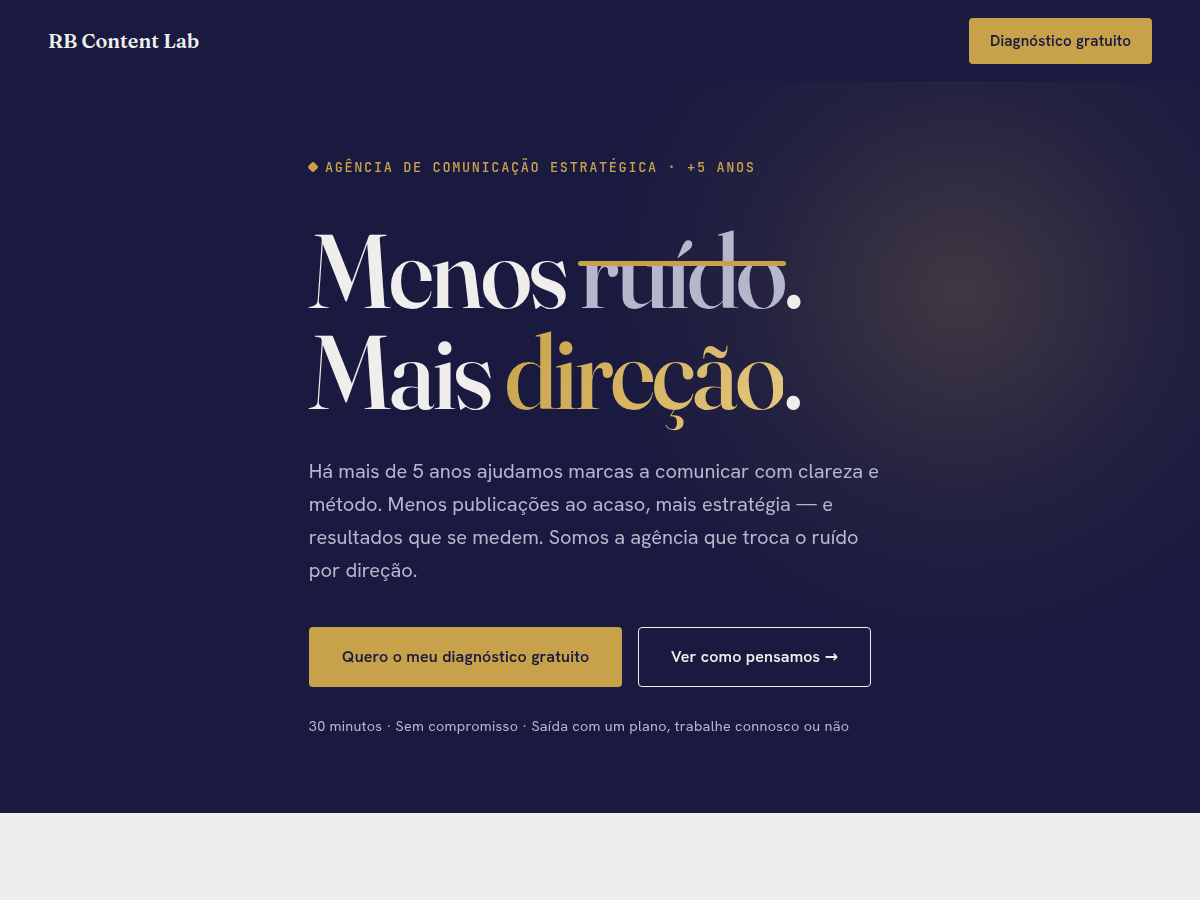
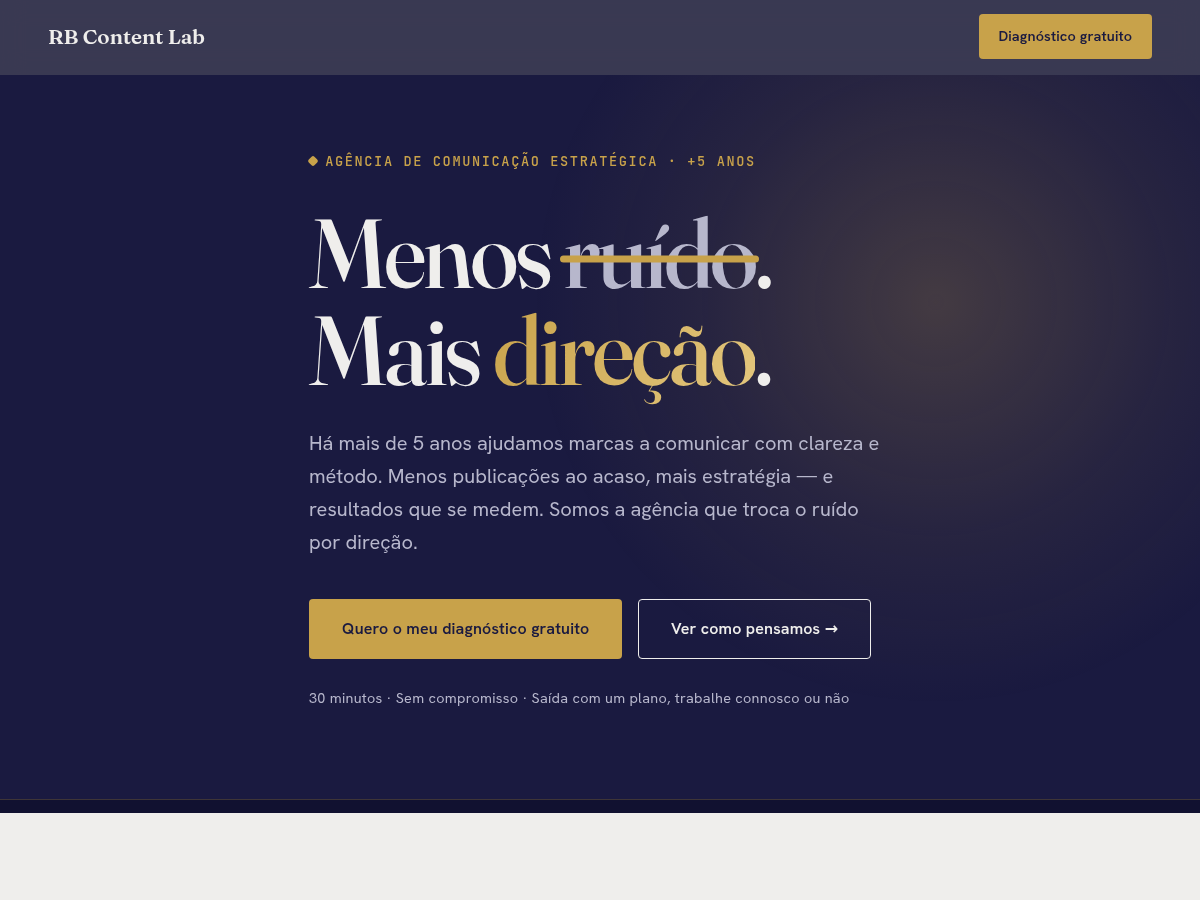
Landing: nav sticky com blur, traço corrigido, mobile-first e mais animações
- Nav bar: cabeçalho sticky translúcido (blur), com sombra ao rolar e a
  esconder-se ao descer / mostrar ao subir (JS, respeita reduced-motion)
- Traço no 'ruído': reposicionado ao centro do texto, espessura proporcional
  e cantos redondos (antes ficava alto e estranho)
- Mobile-first: CTAs em coluna a largura total, hero e espaçamentos ajustados,
  setores sem transbordar, cabeçalho compacto; rede anti-overflow (overflow-x
  clip no main, sem partir o sticky) e overflow-wrap
- Animações mais criativas: variantes de reveal (left/right/scale) por secção,
  glow do hero com deriva lenta, scroll suave com offset do header, e brilho
  a atravessar os botões preenchidos no hover
- Todas as animações com guarda prefers-reduced-motion; screenshot atualizado

diff --git a/rb-content-lab/assets/css/landing.css b/rb-content-lab/assets/css/landing.css
@@ -4,6 +4,8 @@
  */
 
 /* --- Secções e fundos --- */
+/* Rede de segurança anti-overflow horizontal (clip não parte o sticky do header) */
+.rb-lp-main { overflow-x: clip; }
 .rb-lp section { padding-block: var(--rb-space-xxl); }
 .rb-bg-ink { background: var(--rb-ink); color: var(--rb-paper); }
 .rb-bg-paper { background: var(--rb-paper); color: var(--rb-ink); }
@@ -13,39 +15,54 @@
 .rb-muted { color: var(--rb-muted); }
 .rb-bg-ink .rb-muted, .rb-muted-2 { color: var(--rb-muted-2); }
 
-/* --- Cabeçalho minimal da landing --- */
-.rb-lp-header { background: var(--rb-ink); color: var(--rb-paper); }
-.rb-lp-header .rb-container { display: flex; align-items: center; justify-content: space-between; padding-block: 1.1rem; }
-.rb-lp-brand { display: flex; align-items: center; gap: 0.6rem; font-family: var(--rb-font-display); font-weight: 600; font-size: 1.25rem; color: var(--rb-paper); text-decoration: none; }
-.rb-lp-brand img { width: 36px; height: auto; }
-.rb-lp-header .rb-btn { padding: 0.6rem 1.25rem; font-size: 0.95rem; }
+/* --- Cabeçalho minimal da landing (sticky + blur + esconde ao descer) --- */
+.rb-lp-header {
+	position: sticky;
+	top: 0;
+	z-index: 50;
+	color: var(--rb-paper);
+	background: var(--rb-ink);
+	background: color-mix(in srgb, var(--rb-ink-deep) 82%, transparent);
+	-webkit-backdrop-filter: blur(12px);
+	backdrop-filter: blur(12px);
+	border-bottom: 1px solid transparent;
+	transition: transform 0.35s ease, box-shadow 0.3s ease, border-color 0.3s ease;
+}
+.rb-lp-header.is-scrolled { border-bottom-color: rgba(200, 162, 74, 0.18); box-shadow: 0 10px 30px -14px rgba(0, 0, 0, 0.55); }
+.rb-lp-header.is-hidden { transform: translateY(-100%); }
+.rb-lp-header .rb-container { display: flex; align-items: center; justify-content: space-between; gap: 1rem; padding-block: 0.9rem; }
+.rb-lp-brand { display: inline-flex; align-items: center; gap: 0.55rem; font-family: var(--rb-font-display); font-weight: 600; font-size: clamp(1.05rem, 1rem + 0.5vw, 1.3rem); color: var(--rb-paper); text-decoration: none; white-space: nowrap; }
+.rb-lp-brand:hover { text-decoration: none; }
+.rb-lp-brand img { width: 34px; height: auto; }
+.rb-lp-header .rb-btn { padding: 0.6rem 1.15rem; font-size: 0.9rem; white-space: nowrap; }
 
 /* --- Hero --- */
-.rb-lp-hero { min-height: 90vh; display: flex; align-items: center; position: relative; overflow: hidden; }
-/* Glow dourado difuso — profundidade moderna */
+.rb-lp-hero { min-height: min(88vh, 820px); display: flex; align-items: center; position: relative; overflow: hidden; }
+/* Glow dourado difuso, com deriva lenta — profundidade moderna */
 .rb-lp-hero::before {
 	content: "";
 	position: absolute;
-	top: -20%;
-	right: -10%;
-	width: 60vw;
-	height: 60vw;
-	max-width: 820px;
-	max-height: 820px;
-	background: radial-gradient(circle, rgba(200,162,74,0.22) 0%, rgba(200,162,74,0.06) 40%, transparent 70%);
+	top: -25%;
+	right: -12%;
+	width: 68vw;
+	height: 68vw;
+	max-width: 860px;
+	max-height: 860px;
+	background: radial-gradient(circle, rgba(200,162,74,0.24) 0%, rgba(200,162,74,0.07) 42%, transparent 70%);
 	pointer-events: none;
 	z-index: 0;
+	animation: rb-float 14s ease-in-out infinite alternate;
 }
 .rb-lp-hero .rb-container { position: relative; z-index: 1; }
 .rb-statement {
 	font-family: var(--rb-font-display);
 	font-weight: 500;
-	line-height: 0.98;
+	line-height: 1.0;
 	letter-spacing: -0.03em;
-	font-size: clamp(3rem, 1.6rem + 6.5vw, 6.5rem);
-	margin: 2.5rem 0 2rem;
+	font-size: clamp(2.65rem, 1.4rem + 6.2vw, 6.5rem);
+	margin: 2rem 0 1.75rem;
 }
-/* Palavra "ruído": risco dourado que se desenha ao entrar em cena */
+/* Palavra "ruído": risco dourado, centrado, que se desenha ao entrar em cena */
 .rb-hero-statement s {
 	text-decoration: none;
 	position: relative;
@@ -55,16 +72,18 @@
 .rb-hero-statement s::after {
 	content: "";
 	position: absolute;
-	left: -0.02em; right: -0.02em;
-	top: 0.52em;
-	height: 5px;
-	border-radius: 3px;
+	left: -0.04em; right: -0.04em;
+	top: 55%;
+	height: 0.07em;
+	min-height: 3px;
+	border-radius: 999px;
 	background: var(--rb-signature);
-	transform: scaleX(0);
+	transform: translateY(-50%) scaleX(0);
 	transform-origin: left center;
-	transition: transform 0.85s cubic-bezier(0.2, 0.7, 0.2, 1) 0.5s;
+	transition: transform 0.8s cubic-bezier(0.2, 0.7, 0.2, 1) 0.55s;
 }
-.rb-lp-hero.in-view .rb-hero-statement s::after { transform: scaleX(1); }
+.rb-lp-hero.in-view .rb-hero-statement s::after { transform: translateY(-50%) scaleX(1); }
+@keyframes rb-float { from { transform: translate(0, 0); } to { transform: translate(-4%, 5%); } }
 .rb-hero-statement mark {
 	background: transparent;
 	color: var(--rb-signature);
@@ -188,14 +207,22 @@
    ANIMAÇÕES
    =================================================================== */
 
-/* Reveal ao entrar no ecrã (com stagger via --rb-i) */
+/* Reveal ao entrar no ecrã (com stagger via --rb-i e variantes de direção) */
 [data-reveal] {
 	opacity: 0;
-	transform: translateY(28px);
-	transition: opacity 0.7s cubic-bezier(0.2, 0.7, 0.2, 1), transform 0.7s cubic-bezier(0.2, 0.7, 0.2, 1);
+	transform: translateY(30px);
+	transition: opacity 0.75s cubic-bezier(0.16, 0.8, 0.3, 1), transform 0.75s cubic-bezier(0.16, 0.8, 0.3, 1), filter 0.75s ease;
 	transition-delay: calc(var(--rb-i, 0) * 90ms);
+	will-change: transform, opacity;
 }
-[data-reveal].in-view { opacity: 1; transform: none; }
+[data-reveal="left"] { transform: translateX(-36px); }
+[data-reveal="right"] { transform: translateX(36px); }
+[data-reveal="scale"] { transform: scale(0.93); }
+[data-reveal="blur"] { filter: blur(10px); }
+[data-reveal].in-view { opacity: 1; transform: none; filter: none; }
+
+/* Offset do scroll para não ficar por baixo do cabeçalho sticky */
+:where(#manifesto, #diagnostico) { scroll-margin-top: 84px; }
 
 @keyframes rb-fade-in { from { opacity: 0; transform: translateY(-4px); } to { opacity: 1; transform: none; } }
 
@@ -230,8 +257,39 @@
 
 /* Respeita quem prefere menos movimento */
 @media (prefers-reduced-motion: reduce) {
-	[data-reveal] { opacity: 1; transform: none; transition: none; }
-	.rb-hero-statement s::after { transition: none; transform: scaleX(1); }
+	[data-reveal] { opacity: 1; transform: none; filter: none; transition: none; }
+	.rb-hero-statement s::after { transition: none; transform: translateY(-50%) scaleX(1); }
 	.rb-marquee__track { animation: none; }
+	.rb-lp-hero::before { animation: none; }
 	.rb-form-card:hover, .rb-btn:hover { transform: none; }
+}
+
+/* ===================================================================
+   MOBILE-FIRST — refinamentos para ecrãs pequenos
+   =================================================================== */
+@media (max-width: 640px) {
+	.rb-lp section, .rb-lp-hero { padding-block: clamp(3.5rem, 2rem + 8vw, 5rem); }
+	.rb-lp-hero { min-height: auto; }
+	.rb-lp-hero::before { width: 120vw; height: 120vw; top: -10%; right: -30%; }
+	.rb-statement { margin: 1.5rem 0 1.5rem; }
+	/* CTAs em coluna, largura total — alvos de toque confortáveis */
+	.rb-cta-row { flex-direction: column; align-items: stretch; gap: 0.75rem; }
+	.rb-cta-row .rb-btn { width: 100%; text-align: center; padding-block: 0.95rem; }
+	.rb-cta-final .rb-cta-row { align-items: stretch; }
+	/* Marquee um pouco mais compacto */
+	.rb-marquee { padding-block: 0.85rem; }
+	.rb-marquee__track span { font-size: 0.82rem; letter-spacing: 0.14em; gap: 1.75rem; }
+	/* Setores empilham com mais respiração e sem transbordar */
+	.rb-sectors-list { gap: 0.6rem 1.5rem; }
+	.rb-sectors-list li { font-size: clamp(1.2rem, 1rem + 3vw, 1.6rem); gap: 0.6rem; }
+	/* Cartão do formulário sem “saltar” no toque */
+	.rb-form-card:hover { transform: none; }
+	/* Cabeçalho compacto */
+	.rb-lp-header .rb-container { padding-block: 0.7rem; }
+	.rb-lp-header .rb-btn { padding: 0.55rem 0.9rem; font-size: 0.82rem; }
+}
+
+@media (max-width: 380px) {
+	.rb-statement { font-size: 2.35rem; }
+	.rb-lp-brand { font-size: 1rem; }
 }

diff --git a/rb-content-lab/style.css b/rb-content-lab/style.css
@@ -78,6 +78,8 @@ Tags: custom-colors, custom-logo, editor-style, featured-images, translation-rea
    BASE
    =================================================================== */
 *, *::before, *::after { box-sizing: border-box; }
+html { scroll-behavior: smooth; }
+@media (prefers-reduced-motion: reduce) { html { scroll-behavior: auto; } }
 body {
 	margin: 0;
 	font-family: var(--rb-font-body);
@@ -87,6 +89,7 @@ body {
 	background: var(--rb-paper);
 	-webkit-font-smoothing: antialiased;
 	text-rendering: optimizeLegibility;
+	overflow-wrap: break-word;
 }
 img, svg, video { max-width: 100%; height: auto; display: block; }
 a { color: var(--rb-signature); text-decoration: none; }
@@ -155,8 +158,25 @@ p { margin: 0 0 1rem; }
 	transition: background-color 0.2s ease, color 0.2s ease, transform 0.2s ease, box-shadow 0.2s ease;
 	text-decoration: none;
 	will-change: transform;
+	position: relative;
+	overflow: hidden;
+	isolation: isolate;
 }
 .rb-btn:hover { text-decoration: none; transform: translateY(-2px); }
+/* Brilho que atravessa os botões preenchidos ao passar o rato */
+.rb-btn--primary::after, .rb-btn--ink::after {
+	content: "";
+	position: absolute;
+	inset: 0;
+	z-index: -1;
+	background: linear-gradient(120deg, transparent 25%, rgba(255, 255, 255, 0.28) 50%, transparent 75%);
+	transform: translateX(-130%);
+	transition: transform 0.6s ease;
+}
+.rb-btn--primary:hover::after, .rb-btn--ink:hover::after { transform: translateX(130%); }
+@media (prefers-reduced-motion: reduce) {
+	.rb-btn--primary::after, .rb-btn--ink::after { display: none; }
+}
 .rb-btn--primary { background: var(--rb-signature); color: var(--rb-ink); }
 .rb-btn--primary:hover { background: var(--rb-signature-light); color: var(--rb-ink); box-shadow: 0 12px 30px -10px rgba(200, 162, 74, 0.6); }
 .rb-btn--ink { background: var(--rb-ink); color: var(--rb-paper); }

diff --git a/rb-content-lab/assets/js/landing.js b/rb-content-lab/assets/js/landing.js
@@ -19,6 +19,8 @@
 	}
 
 	ready( function () {
+		initHeader();
+
 		var revealEls = Array.prototype.slice.call( document.querySelectorAll( '[data-reveal]' ) );
 		var counters = Array.prototype.slice.call( document.querySelectorAll( '[data-count]' ) );
 
@@ -59,6 +61,37 @@
 			requestAnimationFrame( function () { hero.classList.add( 'in-view' ); } );
 		}
 	} );
+
+	/**
+	 * Cabeçalho: sombra ao rolar; esconde ao descer, mostra ao subir.
+	 */
+	function initHeader() {
+		var header = document.querySelector( '[data-header]' );
+		if ( ! header ) { return; }
+
+		var lastY = window.pageYOffset || 0;
+		var ticking = false;
+
+		function update() {
+			var y = window.pageYOffset || 0;
+			header.classList.toggle( 'is-scrolled', y > 8 );
+
+			if ( ! reduce ) {
+				if ( y > lastY && y > 140 ) {
+					header.classList.add( 'is-hidden' );   // a descer
+				} else {
+					header.classList.remove( 'is-hidden' ); // a subir
+				}
+			}
+			lastY = y;
+			ticking = false;
+		}
+
+		window.addEventListener( 'scroll', function () {
+			if ( ! ticking ) { window.requestAnimationFrame( update ); ticking = true; }
+		}, { passive: true } );
+		update();
+	}
 
 	/**
 	 * Anima um contador preservando prefixos/sufixos (ex.: "+5", "3x").

diff --git a/rb-content-lab/page-templates/landing.php b/rb-content-lab/page-templates/landing.php
@@ -113,7 +113,7 @@ get_header( 'landing' );
 			<div class="rb-grid-3">
 				<?php for ( $i = 1; $i <= 3; $i++ ) : ?>
 					<?php $rb_metric = rb_lp( "proof_m{$i}_value" ); ?>
-					<div data-reveal>
+					<div data-reveal="scale">
 						<p class="rb-metric" data-count="<?php echo esc_attr( $rb_metric ); ?>"><?php echo esc_html( $rb_metric ); ?></p>
 						<p><?php echo esc_html( rb_lp( "proof_m{$i}_label" ) ); ?></p>
 					</div>
@@ -121,12 +121,12 @@ get_header( 'landing' );
 			</div>
 			<hr class="rb-hr">
 			<div class="rb-promise">
-				<div data-reveal>
+				<div data-reveal="left">
 					<p class="rb-eyebrow"><?php echo esc_html( rb_lp( 'promise_eyebrow' ) ); ?></p>
 					<h3 class="rb-promise-title"><?php echo esc_html( rb_lp( 'promise_heading' ) ); ?></h3>
 					<p class="rb-muted-2"><?php echo esc_html( rb_lp( 'promise_text' ) ); ?></p>
 				</div>
-				<div data-reveal>
+				<div data-reveal="right">
 					<ul class="rb-promise-list">
 						<li class="is-yes"><?php echo esc_html( rb_lp( 'promise_yes_1' ) ); ?></li>
 						<li class="is-yes"><?php echo esc_html( rb_lp( 'promise_yes_2' ) ); ?></li>
@@ -143,7 +143,7 @@ get_header( 'landing' );
 	<section id="diagnostico" class="rb-bg-paper-2">
 		<div class="rb-container">
 			<div class="rb-offer-grid">
-				<div data-reveal>
+				<div data-reveal="left">
 					<p class="rb-eyebrow"><?php echo esc_html( rb_lp( 'offer_eyebrow' ) ); ?></p>
 					<h2 class="rb-heading-lg"><?php echo esc_html( rb_lp( 'offer_heading' ) ); ?></h2>
 					<p class="rb-muted" style="font-size:1.15rem;"><?php echo esc_html( rb_lp( 'offer_intro' ) ); ?></p>
@@ -154,7 +154,7 @@ get_header( 'landing' );
 					</ul>
 					<p class="rb-muted" style="margin-top:1.5rem;"><?php echo esc_html( rb_lp( 'offer_next' ) ); ?></p>
 				</div>
-				<div class="rb-form-card" data-reveal>
+				<div class="rb-form-card" data-reveal="scale">
 					<h3><?php echo esc_html( rb_lp( 'offer_form_title' ) ); ?></h3>
 					<?php
 					// Formulário Fluent Forms (ligado ao FluentCRM). Renderiza se o plugin estiver ativo.

diff --git a/rb-content-lab/header-landing.php b/rb-content-lab/header-landing.php
@@ -18,7 +18,7 @@ if ( ! defined( 'ABSPATH' ) ) {
 </head>
 <body <?php body_class( 'rb-lp' ); ?>>
 <?php wp_body_open(); ?>
-<header class="rb-lp-header rb-on-dark rb-bg-ink">
+<header class="rb-lp-header rb-on-dark" data-header>
 	<div class="rb-container">
 		<a class="rb-lp-brand" href="<?php echo esc_url( home_url( '/' ) ); ?>">
 			<?php
